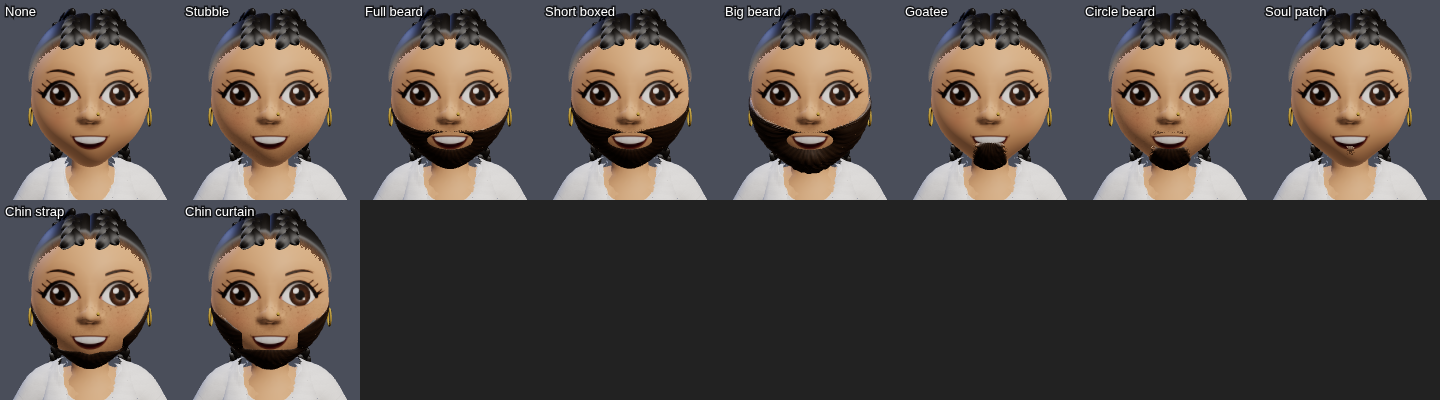
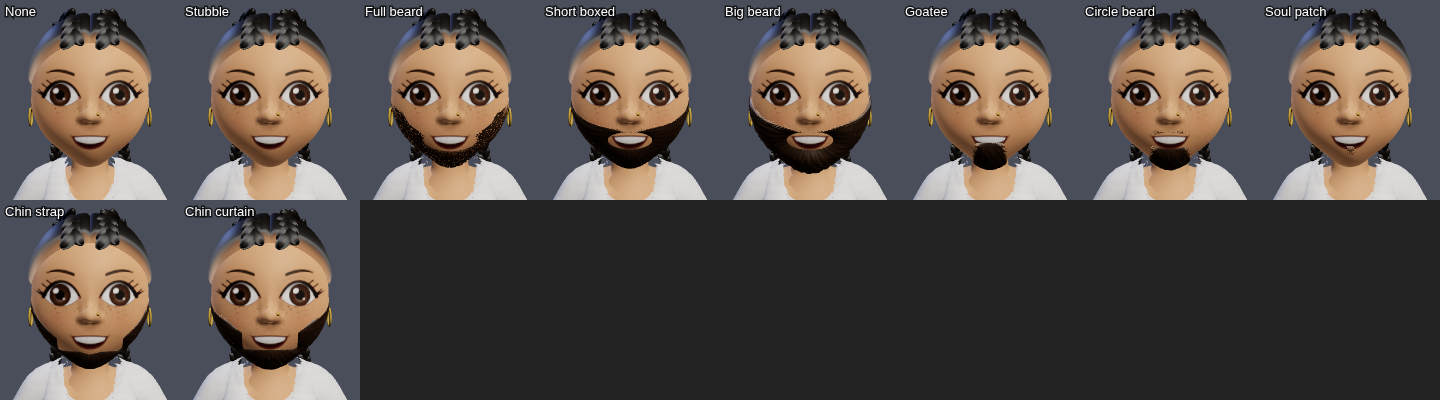
pass 3: beard styles tagged (trim shader only for full beard), re-rendered ref sheets, close-ups, grids, motion; PROGRESS

diff --git a/src/mp/v2/hair.js b/src/mp/v2/hair.js
@@ -231,6 +231,10 @@ export function hairMaterial(c1, c2, hl = .35, skin = null) { // skin: blend the
           float u = vH.y; float r1 = fract(sin(floor(vH.z * 300.0) * 12.9898) * 43758.5453), r2 = fract(sin(floor(vH.z * 1100.0 + 3.0) * 78.233) * 43758.5453);
           float r3 = fract(sin(dot(floor(vObjP * 1500.0), vec3(12.9898, 78.233, 37.719))) * 43758.5453); float fo = vE, fi = smoothstep(0.08, 0.0, u);
           if (max(fo, fi * 0.6) > 0.1 + 0.9 * (r1 * 0.35 + r2 * 0.25 + r3 * 0.4)) discard; float fs = smoothstep(0.0, 0.85, vE) * (0.75 + 0.25 * r2); c = mix(c * (1.0 + 0.15 * fs), uSk * 0.86, uSkF * fs * 0.62 * 0.3); }
+        else if (vH.w > 4.5 && vH.w < 5.1) { // other beard styles: opaque shell, strand-wispy feathered edge
+          float u = vH.y; float r1 = fract(sin(floor(vH.z * 300.0) * 12.9898) * 43758.5453), r2 = fract(sin(floor(vH.z * 1100.0 + 3.0) * 78.233) * 43758.5453);
+          float r3 = fract(sin(dot(floor(vObjP * 1500.0), vec3(12.9898, 78.233, 37.719))) * 43758.5453); float fo = vE, fi = smoothstep(0.08, 0.0, u);
+          if (max(fo, fi * 0.6) > 0.1 + 0.9 * (r1 * 0.35 + r2 * 0.25 + r3 * 0.4)) discard; float fs = smoothstep(0.0, 0.85, vE) * (0.75 + 0.25 * r2); c = mix(c * (1.0 + 0.15 * fs), uSk * 0.86, uSkF * fs * 0.62); }
         else if (vH.w > 4.5) { // close-trimmed beard: thin fuzzy shell over the skin-shader stubble; fine stipple that thins out toward the cheek line / neck
           float u = vH.y; float r2 = fract(sin(floor(vH.z * 1100.0 + 3.0) * 78.233) * 43758.5453);
           float r3 = fract(sin(dot(floor(vObjP * 2400.0), vec3(12.9898, 78.233, 37.719))) * 43758.5453); float fi = smoothstep(0.1, 0.0, u);
@@ -245,13 +249,13 @@ export function hairMaterial(c1, c2, hl = .35, skin = null) { // skin: blend the
           float spec = pow(sinTH, 60.0) * 0.35 + pow(sinTH, 12.0) * 0.08; float rimF = pow(1.0 - clamp(dot(N, V), 0.0, 1.0), 2.5);
           totalEmissiveRadiance += mix(diffuseColor.rgb, vec3(1.0), 0.35) * spec * (0.5 + 0.5 * vH.x) + diffuseColor.rgb * (0.05 + rimF * 0.2); }`);
   };
-  m.customProgramCacheKey = () => 'v2hair6'; _mats.set(key, m); return m;
+  m.customProgramCacheKey = () => 'v2hair7'; _mats.set(key, m); return m;
 }
 
 // ---------- facial hair: polar band around the mouth. Inner edge = first entry into the mask, outer edge = exit; both edges tuck under
 // the skin, so beards have clean smooth outlines and a clean opening around the lips.
 export const BEARD_STYLES = { // mask(p, a, L) on head-local surface points; T thickness, curl
-  full: { T: .0016, curl: .0006, fade: .016, mask: (p, a, L) => Math.abs(a) < 91 && offNeck(p) && p.y < cheekY(Math.abs(p.x)) && p.y > fullFloor(p) && !mouthHole(p, L, .016) },
+  full: { trim: 1, T: .0016, curl: .0006, fade: .016, mask: (p, a, L) => Math.abs(a) < 91 && offNeck(p) && p.y < cheekY(Math.abs(p.x)) && p.y > fullFloor(p) && !mouthHole(p, L, .016) },
   boxed: { T: .004, curl: .0008, mask: (p, a, L) => Math.abs(a) < 90 && offNeck(p) && p.y < topLine(a, L, .8) && !mouthHole(p, L, .008) },
   lumber: { T: .013, curl: .003, mask: (p, a, L) => Math.abs(a) < 92 && offNeck(p) && p.y < topLine(a, L, 1.15) && !mouthHole(p, L, .01) },
   goatee: { T: .006, curl: .0015, mask: (p, a, L) => Math.abs(p.x) < .034 && p.y < L.mouthY - .006 && p.z > .02 },
@@ -296,7 +300,7 @@ export function buildBand(head, st, opt = {}) {
   for (let j = 0; j <= NPH; j++) { const jj = j % NPH, ph = jj / NPH * Math.PI * 2; const w0 = tin[jj], w1 = tout[jj]; const band = Math.max(0, w1 - w0); const zero = empty[jj] || band < .5 * D2R; const pe = surf(head, dirOf(fr, w1, ph));
     for (let i = 0; i < NR; i++) { let th, t; if (i === 0) { th = Math.max(0, w0 - 1 * D2R); t = -.0025; } else if (i === NR - 1) { th = w1 + 1 * D2R; t = -.0025; } else { const u = (i - 1) / (NU); th = w0 + band * u; const e = ss(0, .2, u) * ss(1, .62, u); t = zero ? -.0025 : st.T * Math.pow(e, .7) + .0008 * (1 - e); }
       const d = dirOf(fr, th, ph); const p = surf(head, d); const n = normalAt(head, p); if (t > 0 && !opt.flat) t *= .5 + .5 * ss(-.03, -.13, p.y) + .15 * ss(.03, 0, Math.abs(p.x)); if (st.curl && t > 0) t += st.curl * (Math.abs(Math.sin(p.x * 260 + Math.sin(p.y * 200) * 2) * Math.sin(p.y * 260 + p.z * 150)) - .3) * (t / st.T); const dE = p.distanceTo(pe); const q = p.addScaledVector(n, t); aE.push(zero ? 1 : 1 - Math.min(1, dE / FL));
-      pos.push(q.x, q.y, q.z); const tg = new THREE.Vector3(0, -1, 0).addScaledVector(n, -(-n.y)).normalize(); tan.push(tg.x, tg.y, tg.z); aux.push(.5 + .5 * Math.sin(ph * 40), i / NR, ph / 6.283, 5); } }
+      pos.push(q.x, q.y, q.z); const tg = new THREE.Vector3(0, -1, 0).addScaledVector(n, -(-n.y)).normalize(); tan.push(tg.x, tg.y, tg.z); aux.push(.5 + .5 * Math.sin(ph * 40), i / NR, ph / 6.283, st.trim ? 5.2 : 5); } }
   for (let j = 0; j < NPH; j++) for (let i = 0; i < NR - 1; i++) { const a = j * NR + i, b = (j + 1) * NR + i; idx.push(a, b, a + 1, b, b + 1, a + 1); }
   const g = new THREE.BufferGeometry(); g.setAttribute('position', new THREE.Float32BufferAttribute(pos, 3)); g.setAttribute('aT', new THREE.Float32BufferAttribute(tan, 3)); g.setAttribute('aH', new THREE.Float32BufferAttribute(aux, 4)); g.setAttribute('aE', new THREE.Float32BufferAttribute(aE, 1)); g.setIndex(idx); g.computeVertexNormals(); return g;
 }

diff --git a/docs/mp-chars-v2/PROGRESS.md b/docs/mp-chars-v2/PROGRESS.md
@@ -73,3 +73,15 @@ Honest flaws left:
 - A faint tone/shading step remains where the neck meets the chest (blotchy flat shading from the base body normals), much weaker than before but visible on the girl up close.
 - Brim undersides are lit flat/pale rather than shaded; baseball-cap bills and the sun visor are still thin partial shells.
 - Fingers are only slightly curled (bind-pose rotation, no knuckle detail).
+
+## Fix pass 3 (Nov 19 2026, ~06:45-07:05 EST)
+- Guy full beard rebuilt as a close-trimmed beard: stubble is painted in the head skin shader (3D head-local mask: curved cheek line from sideburn down to the mouth corners, lip + lip-to-chin gap kept bare, jaw-hugging bottom edge, fine stipple density + tint) with only a ~1.6 mm fuzzy shell on top (stippled, thins toward the edges). Lighter, less saturated default beard colour (#6a4f38, hair-matched). The vertical wall at the mouth corners is gone (no LIP_CUT for this beard). Other beard styles keep the old opaque shell.
+- Scalp hairline: dither removed; hair colour now blends smoothly into the skin tone over ~2 cm (no discard, no grain).
+- Hats: each now has its own silhouette (acc.js): beanie = knit ribbed dome + folded cuff (+pom), baseball cap = rounded crown with panel seams + button + curved bill, bucket = tapered crown + downward brim, fedora = pinched crown + band + snap brim, western = dented crown + band + brim curled up at the sides, sun hat = low crown + wide flat brim + ribbon, beret = flat floppy disc pulled to one side + rim band + stalk, hard hat = ridged shell + brim with a front peak. Per-hat default colours (`HAT_DEFAULTS` in catalog.js, applied by the creator when a hat style is picked); brim undersides are lit (no black).
+- Tris unchanged: guy 86,029, girl 90,683.
+### Honest flaws left
+- Collar tips beside the neck are NOT fixed (jagged triangles in the base body mesh under the shirt; hiding the shell just exposes skin spikes).
+- Beard is shorter/lighter than the Snap ref's full beard on purpose; the stubble grain is visible up close and the shell sideburn near the ear still ends with a fairly straight cut.
+- Hairline is a smooth gradient, so it reads airbrushed rather than strand-by-strand.
+- Cap bills are flat-ish fans; hat underside shading is flat; hats do not yet resize for very wide hair (afro), and hat/hair clipping was only checked on default hair.
+- Faint tone step at neck/chest on the girl remains.
